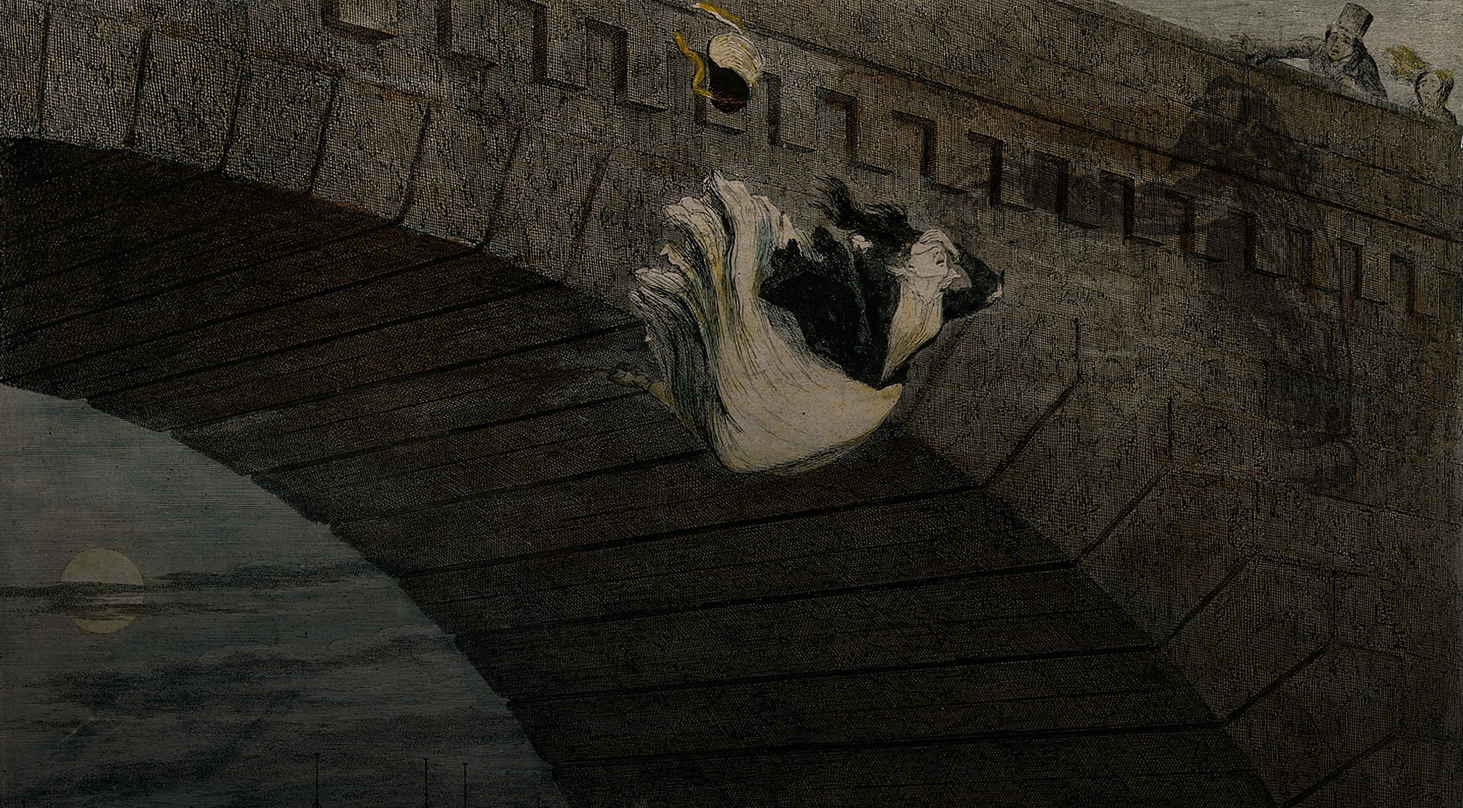
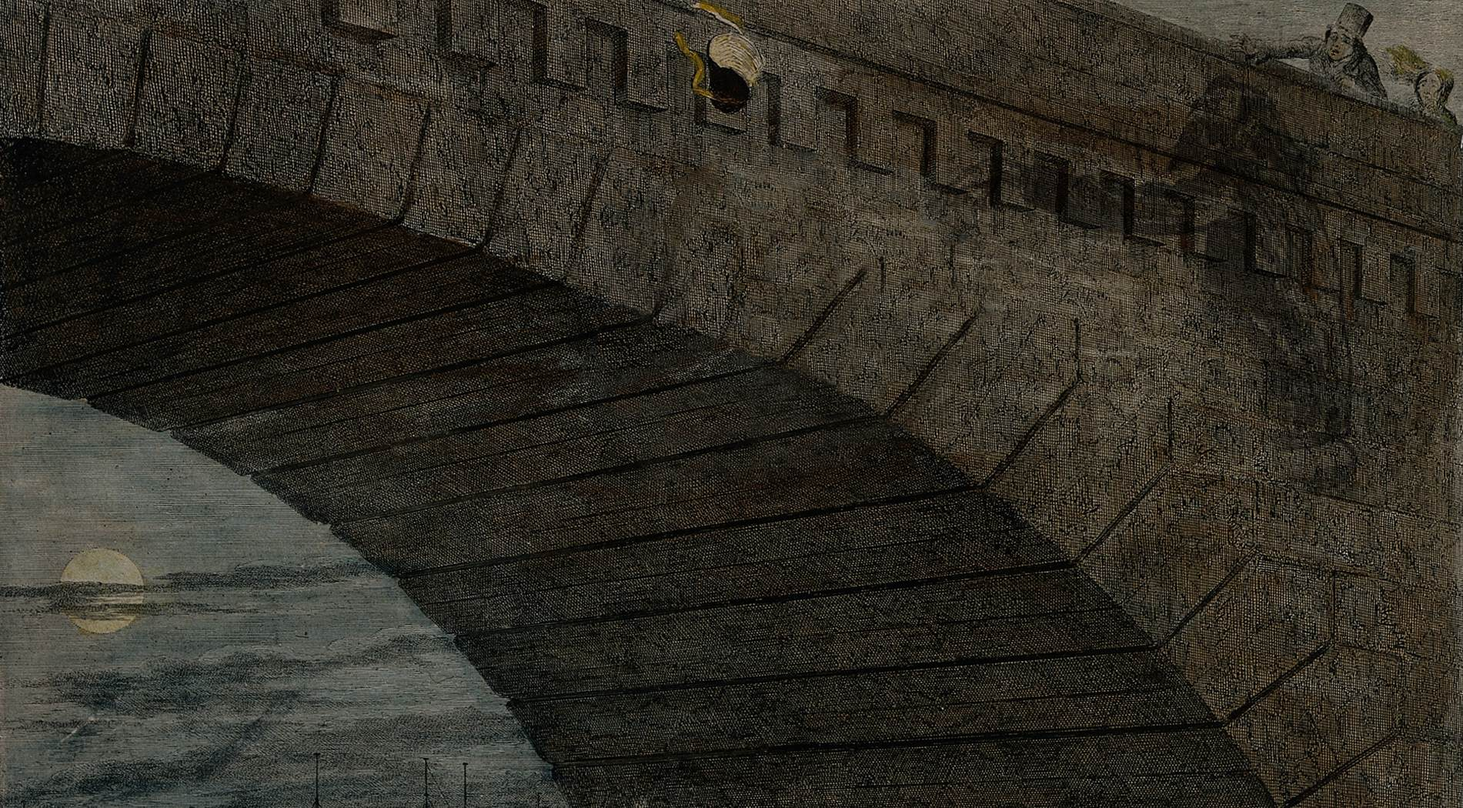
Svengali first comic initial layout and fade-in

Changed region(s): [[0.0, 0.1829, 1.0, 1.0], [0.6518, 0.6705, 0.6828, 0.701], [0.4966, 0.061, 0.5276, 0.0914]]

diff --git a/_assets/build/css/main.css b/_assets/build/css/main.css
@@ -1,1 +1,1 @@
-*{margin:0;padding:0;box-sizing:border-box}body{background-color:#000;font-family:"Abril Text Regular", Georgia, 'Times New Roman', Times, serif;font-size-adjust:0.5;font-weight:normal;font-style:normal;font-size:100%;color:#333;line-height:1.4}h1{font-family:"Abril Display Regular", Didot, 'Times New Roman', Times, serif;font-size-adjust:0.48;font-weight:normal;font-style:normal}h2,h3,h4,h5,h6{font-family:"Abril Display Regular", Didot, 'Times New Roman', Times, serif;font-size-adjust:0.48;font-weight:normal;font-style:normal;margin-bottom:1em}em,i{font-family:"Abril Text Italic", Georgia, 'Times New Roman', Times, serif;font-size-adjust:0.51;font-weight:normal;font-style:italic}iframe{border:none}.clearfix:before,.row:before,.clearfix:after,.row:after{content:" ";display:table}.clearfix:after,.row:after{clear:both}.global-navigation nav{background-color:#000}.global-navigation a{color:#fff}.global-navigation img{display:none}@media screen and (min-width: 48em){.global-navigation{position:fixed;top:0;left:0;width:100%;overflow:hidden;z-index:20}.global-navigation .container{-webkit-transform:translate(-1211px, 0);-webkit-transition:-webkit-transform 0.4s ease}.global-navigation .container.active{-webkit-transform:translate(0, 0)}.global-navigation nav{float:left;background-color:rgba(0,0,0,0.7);width:1210px;height:auto}.global-navigation ul{display:block}.global-navigation li{float:left;list-style:none}.global-navigation a{display:block;color:#fff;font-family:"Abril Text Regular", Georgia, 'Times New Roman', Times, serif;font-size-adjust:0.5;font-weight:normal;font-style:normal;font-size:0.7rem;text-transform:uppercase;letter-spacing:.1em;width:180px;padding:1em 1em 2em 1em;text-decoration:none}.global-navigation a:first-child{margin-left:1em}.global-navigation a span{display:block;padding:0.6em 0}.global-navigation a img{display:block;width:100%}.global-navigation .handle{float:left;background-color:rgba(0,0,0,0.7);width:65px;height:60px;border-left:1px solid #666}.global-navigation li:nth-child(1) span{border-top:1px solid #D81793}.global-navigation li:nth-child(2) span{border-top:1px solid #D5189A}.global-navigation li:nth-child(3) span{border-top:1px solid #CB1AA8}.global-navigation li:nth-child(4) span{border-top:1px solid #BB1DBD}.global-navigation li:nth-child(5) span{border-top:1px solid #B01FCF}.global-navigation li:nth-child(6) span{border-top:1px solid #A921D9}}.start .bg-container{position:absolute;top:0}.start .content{position:relative;width:80%;max-width:1200px;margin:10vh auto 0 auto}.start .scene-set{color:#fff;margin-bottom:6vh}.start .scene-set .location{display:block;font-family:"Tablet Gothic Regular", 'Avenir Next', Corbel, Arial, Roboto, sans-serif;font-weight:normal;font-style:normal;font-size:0.8rem;text-transform:uppercase;letter-spacing:.1em;text-align:center}.start .scene-set .date{display:block;font-family:"Abril Display Regular", Didot, 'Times New Roman', Times, serif;font-size-adjust:0.48;font-weight:normal;font-style:normal;font-size:2.2rem;text-align:center}.start header h1{color:#fff;font-size:2rem;line-height:1;text-align:center;margin:0.3em 0 0 0}.start .intro-text{color:#fff;font-family:"Abril Text Regular", Georgia, 'Times New Roman', Times, serif;font-size-adjust:0.5;font-weight:normal;font-style:normal;font-size:0.9rem;line-height:1.5;text-align:center;margin:2.2em auto 0 auto}@media screen and (min-width: 48em){.start{min-height:600px}.start .content{margin-top:20vh}.start .scene-set{margin-bottom:4em}.start .scene-set .date{font-size:4.2rem}.start header h1{font-size:4rem}.start .intro-text{font-size:1.1rem;width:75%}}.sequence:after{content:"";clear:left;display:block}.panel{position:relative}.bg-container{background-color:#000;width:100%;overflow:hidden}.bg-container img,.bg-container video{display:block;width:100%}.scroll-content{color:#fff;font-family:"Abril Text Regular", Georgia, 'Times New Roman', Times, serif;font-size-adjust:0.5;font-weight:normal;font-style:normal;font-size:0.9rem;padding:15px}.scroll-content .content{max-width:600px}.scroll-content p{margin-bottom:1em}.scroll-content.align-center{text-align:center}.scroll-content.light{color:#fff}.scroll-content.fixed{position:relative;top:auto;bottom:auto}.sequence .panel:last-of-type .scroll-content{bottom:30%}@media screen and (min-width: 48em){.bg-container{position:absolute;top:0;left:0;height:100%}.bg-container.fixed{position:fixed;top:0;left:0;width:100%}.scroll-content{position:absolute;left:3%;bottom:20%;font-size:1.2rem}.scroll-content.left{max-width:320px}.scroll-content.right{left:auto;right:3%;max-width:320px}.scroll-content.position-center{width:100%;left:0}.scroll-content.position-center .inner{width:640px;margin:0 auto}.panel{min-height:600px}}.scroll-content--strip{position:absolute;left:3%;font-size:0.9rem;color:#fff;background-color:rgba(0,0,0,0.7);width:250px;padding:35px 25px 200px 25px;line-height:1.6}.scroll-content--strip p{margin-bottom:1rem}.scroll-content--strip.top{top:0}.scroll-content--strip.bottom{bottom:-1px}.tap-block p{position:absolute;top:80px;width:100%;color:#fff;text-align:center;font-size:2.236rem;font-family:"Abril Text Regular", Georgia, 'Times New Roman', Times, serif;font-size-adjust:0.5;font-weight:normal;font-style:normal}.sciences-committee .scroll-content{top:35%;bottom:auto;width:100%}.sciences-committee .scroll-content header{margin-bottom:3em}.sciences-committee .scroll-content h1{color:#fff;text-align:center}.sciences-committee .inner{max-width:640px;margin:0 auto}.audio-icon{position:absolute;top:15px;right:15px;width:36px;height:36px;background:url("/_assets/img/play-sound.svg") 50% 50% no-repeat;background-size:100%;border-radius:4px;z-index:5;-webkit-transition:opacity 0.3s ease}.audio-icon:hover,.audio-icon.active{opacity:1}.audio-icon .circles{-webkit-animation-name:circle;-webkit-animation-duration:2s;-webkit-animation-iteration-count:infinite}.audio-icon .circles{position:absolute;top:0px;left:0px;width:36px;height:36px;border:2px solid #fff;border-radius:40px}@-webkit-keyframes circle{from{opacity:1;-webkit-transform:scale(0)}to{opacity:0;-webkit-transform:scale(2)}}.popup-section{background-color:#efefef;-webkit-perspective:800;-webkit-perspective-origin:50% 50%;-moz-perspective:800;-moz-perspective-origin:50% 50%}.crop-zoom{display:none;position:absolute;top:0px;width:100%;height:100%;z-index:10}@media screen and (min-width: 48em){.js .crop-zoom{display:block}}.tap-target{position:absolute;width:36px;height:36px;border-radius:36px;background-color:rgba(255,255,255,0.6)}.tap-target.rod{top:370px;left:15%}.tap-target.woman{top:570px;left:45%}.tap-target.mesmer{top:200px;right:22%}.tap-target div{position:absolute;top:0px;left:0px;width:36px;height:36px;border:2px solid #fff;border-radius:40px}.tap-target.animate div{-webkit-animation-name:circle;-webkit-animation-duration:3s;-webkit-animation-iteration-count:infinite}.overlay{display:none;position:fixed;top:0;background-color:transparent;width:100%;z-index:20;-webkit-transition:all 0.5s ease;-moz-transition:all 0.5s ease}.overlay .image-crop{position:absolute;opacity:0;z-index:15}.gonads img{-webkit-transform:scale(2.3, 2.3);-webkit-transform-origin:100% 0%;-webkit-transition:-webkit-transform 4s ease}.gonads.active img{-webkit-transform:scale(1, 1)}.india .scroll-content{color:#333}.boats{position:absolute;bottom:25px;width:100%;height:161px;background:url("/_assets/img/esdaile/esdaile-4-boat.png") 0 0 no-repeat;background-size:100%;z-index:5;-webkit-transform:translate(0, 0);-webkit-transition:all 20s linear}.past-twitter .tweet{position:relative;color:#fff;background-color:rgba(0,0,0,0.8);border-radius:5px;width:400px;padding:0.6em 1em;margin:1em 0}.past-twitter .tweet .avatar{position:absolute;top:-10px;background-color:#fff;width:90px;height:90px;border-radius:10px}.past-twitter .tweet .header{border-bottom:1px solid #777;padding-bottom:0.5em}.past-twitter .tweet .header .time{color:#999;font-family:"Tablet Gothic Regular", 'Avenir Next', Corbel, Arial, Roboto, sans-serif;font-weight:normal;font-style:normal;font-size:0.8rem}.past-twitter .tweet .header .username{font-family:"Tablet Gothic Regular", 'Avenir Next', Corbel, Arial, Roboto, sans-serif;font-weight:normal;font-style:normal;font-size:0.9rem}.past-twitter .tweet .header .username span{color:#999}.past-twitter .tweet .body{padding:0.6em 0}.past-twitter .tweet.wakley{float:left}.past-twitter .tweet.wakley .avatar{left:-10px}.past-twitter .tweet.wakley .header{padding-left:80px}.past-twitter .tweet.wakley .body{padding-left:80px}.past-twitter .tweet.elliotson{float:right}.past-twitter .tweet.elliotson .avatar{right:-10px}.past-twitter .tweet.elliotson .header{padding-right:80px}.past-twitter .tweet.elliotson .body{padding-right:80px}.library-panel{display:none;position:absolute;bottom:0;right:0;z-index:5;-webkit-transition:all 0.5s ease}.library-panel .handle{display:block;color:#fff;font-family:"Abril Text Italic", Georgia, 'Times New Roman', Times, serif;font-size-adjust:0.51;font-weight:normal;font-style:italic;width:40px;border:1px solid #fff;border-radius:3px;text-align:center;margin:0 0 5px -45px;line-height:40px}.library-panel .body{color:#fff;background-color:rgba(0,0,0,0.8);width:200px;height:200px;padding:15px}.library-panel.active{-webkit-transform:translate(0, 0)}.js .library-panel{display:block}.library-layer{position:relative;font-family:"Tablet Gothic Regular", 'Avenir Next', Corbel, Arial, Roboto, sans-serif;font-weight:normal;font-style:normal}.library-layer h1{font-family:"Tablet Gothic Regular", 'Avenir Next', Corbel, Arial, Roboto, sans-serif;font-weight:normal;font-style:normal}.library-layer li{list-style:none}.library-layer .inner{max-width:64em;margin:0 auto}.library-layer .bar{background-color:#70B5C9;padding:1.2em 0}.library-layer .bar span{color:#fff;font-size:0.9rem;text-transform:uppercase;margin-left:1.5em}.library-layer .bar .button{float:right;color:#fff;font-size:0.9rem;padding:0 1em;line-height:30px;text-transform:uppercase;text-decoration:none;border:1px solid #fff;border-radius:5px}.library-layer .gap{background:#fff;width:100%;overflow:hidden}.library-layer .in-the-player{padding:2em 0}.library-layer .in-the-player .in-the-player--header{border-bottom:1px solid #999;margin-bottom:2em}.library-layer .in-the-player .in-the-player--header h1{color:#999;font-size:0.9rem;text-transform:uppercase}.library-layer .in-the-player li{float:left;width:45%}.library-layer .in-the-player li:nth-child(odd){margin-right:10%}.library-layer .player-item{margin-bottom:3em}.library-layer .player-item img{float:left;margin-right:0.8em}.library-layer .player-item .player-item--content{float:left;width:60%}.library-layer .player-item .player-item--header{margin-bottom:0.8em}.library-layer .player-item .player-item--header h1{font-size:1.2rem}.library-layer .player-item .player-item--body{color:#64696A;font-size:0.9rem}.library-layer .player-item .player-item--body cite{display:block;margin-top:1em}.library-layer .player-item .player-item--footer{border-top:1px solid #ccc;padding-top:0.5em}.library-layer .player-item .player-item--footer a{color:#8CC4D4;font-size:0.8rem;text-decoration:none;text-transform:uppercase}.library-layer .related-resources{background-color:#F9F9F9;padding:2em 0}.library-layer .related-resources .related-resources--header{border-bottom:1px solid #999;margin-bottom:1em}.library-layer .related-resources .related-resources--header h1{color:#999;font-size:0.9rem;text-transform:uppercase}.library-layer .related-resources li{float:left;width:45%}.library-layer .related-resources li:nth-child(odd){margin-right:10%}.library-layer .related-item{margin-bottom:2em}.library-layer .related-item .related-item--header{margin-bottom:0.8em}.library-layer .related-item .related-item--header a{color:#000;text-decoration:none}.library-layer .related-item .related-item--header a:hover{color:#8CC4D4}.library-layer .related-item .related-item--header h1{font-size:1.2rem}.audio-player{position:relative;padding-right:40px}.audio-player .time-left{display:block;color:#fff;font-family:"Tablet Gothic Regular", 'Avenir Next', Corbel, Arial, Roboto, sans-serif;font-weight:normal;font-style:normal;font-size:0.75rem;text-transform:uppercase;height:18px}.audio-player .progress-bar{position:relative;background-color:rgba(255,255,255,0.4);width:100%;height:1px}.audio-player .progressed{position:absolute;top:0;left:0;background-color:#fff;height:1px}.audio-player .controls{position:absolute;right:0;top:0;background-color:#fff;width:36px;height:36px}.quiz{margin-top:20%}.quiz .content{max-width:960px;margin:0 auto}.quiz .quiz-container{position:relative;background-color:#fff;min-height:500px;border-radius:4px;overflow:hidden}.quiz .quiz-start{position:relative;min-height:500px;padding:1em}.quiz .quiz-start .button{position:absolute;bottom:20px;left:40%;font-family:"Tablet Gothic Regular", 'Avenir Next', Corbel, Arial, Roboto, sans-serif;font-weight:normal;font-style:normal;background-color:#70B5C9;padding:1px 3.2em 0 3.2em;line-height:50px;border-radius:25px;cursor:default}.quiz .quiz-playground{display:none}.quiz .image{float:left}.quiz .image img{width:100%}.quiz .answers{float:right;width:300px;padding:0 2em}.quiz .answers li{color:#333;font-family:"Tablet Gothic Regular", 'Avenir Next', Corbel, Arial, Roboto, sans-serif;font-weight:normal;font-style:normal;font-size:0.9rem;background-color:#fff;border:1px solid #999;width:100%;margin-bottom:1em;padding:1px 0 0 0.8em;line-height:32px;border-radius:18px;list-style:none;cursor:default}.quiz .question{color:#333;font-size:1.5rem;margin:1em 0 1.2em 0;line-height:1.2}.quiz .timer{position:absolute;color:#fff;font-family:"Tablet Gothic Regular", 'Avenir Next', Corbel, Arial, Roboto, sans-serif;font-weight:normal;font-style:normal;font-size:3.6rem;background-color:rgba(0,0,0,0.7);text-align:center;line-height:90px;width:100px;border-radius:50px;padding-top:10px}.quiz .remaining{position:absolute;bottom:0;left:0;background-color:rgba(255,255,255,0.7);padding:0.4em}.quiz .score{font-size:1.6rem;border:1px solid #ccc;text-align:center;padding-top:0.6em;border-radius:10px}.quiz .score span{display:block;font-family:"Tablet Gothic Regular", 'Avenir Next', Corbel, Arial, Roboto, sans-serif;font-weight:normal;font-style:normal;font-size:6rem}.quiz .quiz-finish{display:none}.quiz .quiz-finish header{text-align:center;padding-top:2em}.quiz .quiz-finish header h1{display:inline;font-size:2.6rem;border-bottom:1px solid #999;padding-bottom:0.5em}.quiz .quiz-finish--score{font-family:"Tablet Gothic Regular", 'Avenir Next', Corbel, Arial, Roboto, sans-serif;font-weight:normal;font-style:normal;font-size:0.9rem;text-align:center;margin-top:6em}.quiz .quiz-finish--score span{display:block;font-size:5rem}
+*{margin:0;padding:0;box-sizing:border-box}body{background-color:#000;font-family:"Abril Text Regular", Georgia, 'Times New Roman', Times, serif;font-size-adjust:0.5;font-weight:normal;font-style:normal;font-size:100%;color:#333;line-height:1.4}h1{font-family:"Abril Display Regular", Didot, 'Times New Roman', Times, serif;font-size-adjust:0.48;font-weight:normal;font-style:normal}h2,h3,h4,h5,h6{font-family:"Abril Display Regular", Didot, 'Times New Roman', Times, serif;font-size-adjust:0.48;font-weight:normal;font-style:normal;margin-bottom:1em}em,i{font-family:"Abril Text Italic", Georgia, 'Times New Roman', Times, serif;font-size-adjust:0.51;font-weight:normal;font-style:italic}iframe{border:none}.clearfix:before,.row:before,.clearfix:after,.row:after{content:" ";display:table}.clearfix:after,.row:after{clear:both}.global-navigation nav{background-color:#000}.global-navigation a{color:#fff}.global-navigation img{display:none}@media screen and (min-width: 48em){.global-navigation{position:fixed;top:0;left:0;width:100%;overflow:hidden;z-index:20}.global-navigation .container{-webkit-transform:translate(-1211px, 0);-webkit-transition:-webkit-transform 0.4s ease}.global-navigation .container.active{-webkit-transform:translate(0, 0)}.global-navigation nav{float:left;background-color:rgba(0,0,0,0.7);width:1210px;height:auto}.global-navigation ul{display:block}.global-navigation li{float:left;list-style:none}.global-navigation a{display:block;color:#fff;font-family:"Abril Text Regular", Georgia, 'Times New Roman', Times, serif;font-size-adjust:0.5;font-weight:normal;font-style:normal;font-size:0.7rem;text-transform:uppercase;letter-spacing:.1em;width:180px;padding:1em 1em 2em 1em;text-decoration:none}.global-navigation a:first-child{margin-left:1em}.global-navigation a span{display:block;padding:0.6em 0}.global-navigation a img{display:block;width:100%}.global-navigation .handle{float:left;background-color:rgba(0,0,0,0.7);width:65px;height:60px;border-left:1px solid #666}.global-navigation li:nth-child(1) span{border-top:1px solid #D81793}.global-navigation li:nth-child(2) span{border-top:1px solid #D5189A}.global-navigation li:nth-child(3) span{border-top:1px solid #CB1AA8}.global-navigation li:nth-child(4) span{border-top:1px solid #BB1DBD}.global-navigation li:nth-child(5) span{border-top:1px solid #B01FCF}.global-navigation li:nth-child(6) span{border-top:1px solid #A921D9}}.start .bg-container{position:absolute;top:0}.start .content{position:relative;width:80%;max-width:1200px;margin:10vh auto 0 auto}.start .scene-set{color:#fff;margin-bottom:6vh}.start .scene-set .location{display:block;font-family:"Tablet Gothic Regular", 'Avenir Next', Corbel, Arial, Roboto, sans-serif;font-weight:normal;font-style:normal;font-size:0.8rem;text-transform:uppercase;letter-spacing:.1em;text-align:center}.start .scene-set .date{display:block;font-family:"Abril Display Regular", Didot, 'Times New Roman', Times, serif;font-size-adjust:0.48;font-weight:normal;font-style:normal;font-size:2.2rem;text-align:center}.start header h1{color:#fff;font-size:2rem;line-height:1;text-align:center;margin:0.3em 0 0 0}.start .intro-text{color:#fff;font-family:"Abril Text Regular", Georgia, 'Times New Roman', Times, serif;font-size-adjust:0.5;font-weight:normal;font-style:normal;font-size:0.9rem;line-height:1.5;text-align:center;margin:2.2em auto 0 auto}@media screen and (min-width: 48em){.start{min-height:600px}.start .content{margin-top:20vh}.start .scene-set{margin-bottom:4em}.start .scene-set .date{font-size:4.2rem}.start header h1{font-size:4rem}.start .intro-text{font-size:1.1rem;width:75%}.falling-lady{position:absolute;left:36%;top:25%;width:350px}.falling-lady img{width:100%}}.sequence:after{content:"";clear:left;display:block}.panel{position:relative}.bg-container{background-color:#000;width:100%;overflow:hidden}.bg-container img,.bg-container video{display:block;width:100%}.scroll-content{color:#fff;font-family:"Abril Text Regular", Georgia, 'Times New Roman', Times, serif;font-size-adjust:0.5;font-weight:normal;font-style:normal;font-size:0.9rem;padding:15px}.scroll-content .content{max-width:600px}.scroll-content p{margin-bottom:1em}.scroll-content.align-center{text-align:center}.scroll-content.light{color:#fff}.scroll-content.fixed{position:relative;top:auto;bottom:auto}.sequence .panel:last-of-type .scroll-content{bottom:30%}@media screen and (min-width: 48em){.bg-container{position:absolute;top:0;left:0;height:100%}.bg-container.fixed{position:fixed;top:0;left:0;width:100%}.sequence .panel:last-child .bg-container{top:auto;bottom:0}.scroll-content{position:absolute;left:3%;bottom:20%;font-size:1.2rem}.scroll-content.left{max-width:320px}.scroll-content.right{left:auto;right:3%;max-width:320px}.scroll-content.position-center{width:100%;left:0}.scroll-content.position-center .inner{width:640px;margin:0 auto}.panel{min-height:600px}}.scroll-content--strip{position:absolute;left:3%;font-size:0.9rem;color:#fff;background-color:rgba(0,0,0,0.7);width:250px;padding:35px 25px 200px 25px;line-height:1.6}.scroll-content--strip p{margin-bottom:1rem}.scroll-content--strip.top{top:0}.scroll-content--strip.bottom{bottom:-1px}.tap-block p{position:absolute;top:80px;width:100%;color:#fff;text-align:center;font-size:2.236rem;font-family:"Abril Text Regular", Georgia, 'Times New Roman', Times, serif;font-size-adjust:0.5;font-weight:normal;font-style:normal}.sciences-committee .scroll-content{top:35%;bottom:auto;width:100%}.sciences-committee .scroll-content header{margin-bottom:3em}.sciences-committee .scroll-content h1{color:#fff;text-align:center}.sciences-committee .inner{max-width:640px;margin:0 auto}.audio-icon{position:absolute;top:15px;right:15px;width:36px;height:36px;background:url("/_assets/img/play-sound.svg") 50% 50% no-repeat;background-size:100%;border-radius:4px;z-index:5;-webkit-transition:opacity 0.3s ease}.audio-icon:hover,.audio-icon.active{opacity:1}.audio-icon .circles{-webkit-animation-name:circle;-webkit-animation-duration:2s;-webkit-animation-iteration-count:infinite}.audio-icon .circles{position:absolute;top:0px;left:0px;width:36px;height:36px;border:2px solid #fff;border-radius:40px}@-webkit-keyframes circle{from{opacity:1;-webkit-transform:scale(0)}to{opacity:0;-webkit-transform:scale(2)}}.popup-section{background-color:#efefef;-webkit-perspective:800;-webkit-perspective-origin:50% 50%;-moz-perspective:800;-moz-perspective-origin:50% 50%}.crop-zoom{display:none;position:absolute;top:0px;width:100%;height:100%;z-index:10}@media screen and (min-width: 48em){.js .crop-zoom{display:block}}.tap-target{position:absolute;width:36px;height:36px;border-radius:36px;background-color:rgba(255,255,255,0.6)}.tap-target.rod{top:370px;left:15%}.tap-target.woman{top:570px;left:45%}.tap-target.mesmer{top:200px;right:22%}.tap-target div{position:absolute;top:0px;left:0px;width:36px;height:36px;border:2px solid #fff;border-radius:40px}.tap-target.animate div{-webkit-animation-name:circle;-webkit-animation-duration:3s;-webkit-animation-iteration-count:infinite}.overlay{display:none;position:fixed;top:0;background-color:transparent;width:100%;z-index:20;-webkit-transition:all 0.5s ease;-moz-transition:all 0.5s ease}.overlay .image-crop{position:absolute;opacity:0;z-index:15}.gonads img{-webkit-transform:scale(2.3, 2.3);-webkit-transform-origin:100% 0%;-webkit-transition:-webkit-transform 4s ease}.gonads.active img{-webkit-transform:scale(1, 1)}.india .scroll-content{color:#333}.boats{position:absolute;bottom:25px;width:100%;height:161px;background:url("/_assets/img/esdaile/esdaile-4-boat.png") 0 0 no-repeat;background-size:100%;z-index:5;-webkit-transform:translate(0, 0);-webkit-transition:all 20s linear}.trilby .inner{max-width:1024px;margin:0 auto}.trilby .comic-panel{float:left}.trilby .comic-panel img{display:block;width:100%}.trilby .comic-panel:nth-child(1){width:45%}.trilby .comic-panel:nth-child(2){width:45%;margin-left:5%}.trilby .comic-panel:nth-child(3){width:60%;margin-left:-15%;margin-top:-95px}.trilby .comic-panel:nth-child(4){width:45%;margin-left:5%;margin-top:25px}.trilby .comic-panel:nth-child(5){width:45%;margin-top:-65px}.trilby .comic-panel:nth-child(6){width:35%;margin-left:5%;margin-top:25px}.trilby .comic-panel:nth-child(7){width:40%;margin-top:-145px;margin-left:5%}.trilby .comic-panel:nth-child(8){width:25%;margin-left:5%;padding:2em 0}.trilby .comic-panel:nth-child(9){width:45%;margin-left:5%;margin-top:170px}.trilby .comic-panel:nth-child(10){width:45%;margin-top:-140px}.trilby .comic-panel:nth-child(11){width:45%;margin-top:25px;margin-left:5%}.trilby .comic-panel:nth-child(12){width:35%;margin-left:10%}.past-twitter .tweet{position:relative;color:#fff;background-color:rgba(0,0,0,0.8);border-radius:5px;width:400px;padding:0.6em 1em;margin:1em 0}.past-twitter .tweet .avatar{position:absolute;top:-10px;background-color:#fff;width:90px;height:90px;border-radius:10px}.past-twitter .tweet .header{border-bottom:1px solid #777;padding-bottom:0.5em}.past-twitter .tweet .header .time{color:#999;font-family:"Tablet Gothic Regular", 'Avenir Next', Corbel, Arial, Roboto, sans-serif;font-weight:normal;font-style:normal;font-size:0.8rem}.past-twitter .tweet .header .username{font-family:"Tablet Gothic Regular", 'Avenir Next', Corbel, Arial, Roboto, sans-serif;font-weight:normal;font-style:normal;font-size:0.9rem}.past-twitter .tweet .header .username span{color:#999}.past-twitter .tweet .body{padding:0.6em 0}.past-twitter .tweet.wakley{float:left}.past-twitter .tweet.wakley .avatar{left:-10px}.past-twitter .tweet.wakley .header{padding-left:80px}.past-twitter .tweet.wakley .body{padding-left:80px}.past-twitter .tweet.elliotson{float:right}.past-twitter .tweet.elliotson .avatar{right:-10px}.past-twitter .tweet.elliotson .header{padding-right:80px}.past-twitter .tweet.elliotson .body{padding-right:80px}.library-panel{display:none;position:absolute;bottom:0;right:0;z-index:5;-webkit-transition:all 0.5s ease}.library-panel .handle{display:block;color:#fff;font-family:"Abril Text Italic", Georgia, 'Times New Roman', Times, serif;font-size-adjust:0.51;font-weight:normal;font-style:italic;width:40px;border:1px solid #fff;border-radius:3px;text-align:center;margin:0 0 5px -45px;line-height:40px}.library-panel .body{color:#fff;background-color:rgba(0,0,0,0.8);width:200px;height:200px;padding:15px}.library-panel.active{-webkit-transform:translate(0, 0)}.js .library-panel{display:block}.library-layer{position:relative;font-family:"Tablet Gothic Regular", 'Avenir Next', Corbel, Arial, Roboto, sans-serif;font-weight:normal;font-style:normal}.library-layer h1{font-family:"Tablet Gothic Regular", 'Avenir Next', Corbel, Arial, Roboto, sans-serif;font-weight:normal;font-style:normal}.library-layer li{list-style:none}.library-layer .inner{max-width:64em;margin:0 auto}.library-layer .bar{background-color:#70B5C9;padding:1.2em 0}.library-layer .bar span{color:#fff;font-size:0.9rem;text-transform:uppercase;margin-left:1.5em}.library-layer .bar .button{float:right;color:#fff;font-size:0.9rem;padding:0 1em;line-height:30px;text-transform:uppercase;text-decoration:none;border:1px solid #fff;border-radius:5px}.library-layer .gap{background:#fff;width:100%;overflow:hidden}.library-layer .in-the-player{padding:2em 0}.library-layer .in-the-player .in-the-player--header{border-bottom:1px solid #999;margin-bottom:2em}.library-layer .in-the-player .in-the-player--header h1{color:#999;font-size:0.9rem;text-transform:uppercase}.library-layer .in-the-player li{float:left;width:45%}.library-layer .in-the-player li:nth-child(odd){margin-right:10%}.library-layer .player-item{margin-bottom:3em}.library-layer .player-item img{float:left;margin-right:0.8em}.library-layer .player-item .player-item--content{float:left;width:60%}.library-layer .player-item .player-item--header{margin-bottom:0.8em}.library-layer .player-item .player-item--header h1{font-size:1.2rem}.library-layer .player-item .player-item--body{color:#64696A;font-size:0.9rem}.library-layer .player-item .player-item--body cite{display:block;margin-top:1em}.library-layer .player-item .player-item--footer{border-top:1px solid #ccc;padding-top:0.5em}.library-layer .player-item .player-item--footer a{color:#8CC4D4;font-size:0.8rem;text-decoration:none;text-transform:uppercase}.library-layer .related-resources{background-color:#F9F9F9;padding:2em 0}.library-layer .related-resources .related-resources--header{border-bottom:1px solid #999;margin-bottom:1em}.library-layer .related-resources .related-resources--header h1{color:#999;font-size:0.9rem;text-transform:uppercase}.library-layer .related-resources li{float:left;width:45%}.library-layer .related-resources li:nth-child(odd){margin-right:10%}.library-layer .related-item{margin-bottom:2em}.library-layer .related-item .related-item--header{margin-bottom:0.8em}.library-layer .related-item .related-item--header a{color:#000;text-decoration:none}.library-layer .related-item .related-item--header a:hover{color:#8CC4D4}.library-layer .related-item .related-item--header h1{font-size:1.2rem}.audio-player{position:relative;padding-right:40px}.audio-player .time-left{display:block;color:#fff;font-family:"Tablet Gothic Regular", 'Avenir Next', Corbel, Arial, Roboto, sans-serif;font-weight:normal;font-style:normal;font-size:0.75rem;text-transform:uppercase;height:18px}.audio-player .progress-bar{position:relative;background-color:rgba(255,255,255,0.4);width:100%;height:1px}.audio-player .progressed{position:absolute;top:0;left:0;background-color:#fff;height:1px}.audio-player .controls{position:absolute;right:0;top:0;background-color:#fff;width:36px;height:36px}.quiz{margin-top:20%}.quiz .content{max-width:960px;margin:0 auto}.quiz .quiz-container{position:relative;background-color:#fff;min-height:500px;border-radius:4px;overflow:hidden}.quiz .quiz-start{position:relative;min-height:500px;padding:1em}.quiz .quiz-start .button{position:absolute;bottom:20px;left:40%;font-family:"Tablet Gothic Regular", 'Avenir Next', Corbel, Arial, Roboto, sans-serif;font-weight:normal;font-style:normal;background-color:#70B5C9;padding:1px 3.2em 0 3.2em;line-height:50px;border-radius:25px;cursor:default}.quiz .quiz-playground{display:none}.quiz .image{float:left}.quiz .image img{width:100%}.quiz .answers{float:right;width:300px;padding:0 2em}.quiz .answers li{color:#333;font-family:"Tablet Gothic Regular", 'Avenir Next', Corbel, Arial, Roboto, sans-serif;font-weight:normal;font-style:normal;font-size:0.9rem;background-color:#fff;border:1px solid #999;width:100%;margin-bottom:1em;padding:1px 0 0 0.8em;line-height:32px;border-radius:18px;list-style:none;cursor:default}.quiz .question{color:#333;font-size:1.5rem;margin:1em 0 1.2em 0;line-height:1.2}.quiz .timer{position:absolute;color:#fff;font-family:"Tablet Gothic Regular", 'Avenir Next', Corbel, Arial, Roboto, sans-serif;font-weight:normal;font-style:normal;font-size:3.6rem;background-color:rgba(0,0,0,0.7);text-align:center;line-height:90px;width:100px;border-radius:50px;padding-top:10px}.quiz .remaining{position:absolute;bottom:0;left:0;background-color:rgba(255,255,255,0.7);padding:0.4em}.quiz .score{font-size:1.6rem;border:1px solid #ccc;text-align:center;padding-top:0.6em;border-radius:10px}.quiz .score span{display:block;font-family:"Tablet Gothic Regular", 'Avenir Next', Corbel, Arial, Roboto, sans-serif;font-weight:normal;font-style:normal;font-size:6rem}.quiz .quiz-finish{display:none}.quiz .quiz-finish header{text-align:center;padding-top:2em}.quiz .quiz-finish header h1{display:inline;font-size:2.6rem;border-bottom:1px solid #999;padding-bottom:0.5em}.quiz .quiz-finish--score{font-family:"Tablet Gothic Regular", 'Avenir Next', Corbel, Arial, Roboto, sans-serif;font-weight:normal;font-style:normal;font-size:0.9rem;text-align:center;margin-top:6em}.quiz .quiz-finish--score span{display:block;font-size:5rem}

diff --git a/_assets/js/main.js b/_assets/js/main.js
@@ -40,6 +40,18 @@ Pathways.LoadScenes = function() {
         .setTween(start_tween)
 
 
+    // Svengali
+    if( _('.falling-lady') ) {
+        var lady_tween = TweenMax.to( _('.falling-lady'), 5, { y: (panel_height * 2) } );
+
+        scenes[idx++] = new ScrollScene({
+                triggerElement: '.start',
+                duration:       (panel_height * 2),
+                offset:         (panel_height / 4)
+            })
+            .setTween(lady_tween);
+    }
+
     /**************
         Sequence
      **************/
@@ -142,17 +154,20 @@ Pathways.LoadScenes = function() {
     }
 
     // Video
-    if( $('.news').length && _('.news-video') ) {
+    if( $('.news').length ) {
         scenes[idx++] = new ScrollScene({
                 triggerElement: '.news',
                 duration:       panel_height
             })
             .on('enter', function(e) {
-                _('.news-video').play();
+                if( _('.news video') )
+                    _('.news video').play();
             })
             .on('leave', function(e) {
-                _('.news-video').pause();
-                _('.news-video').currentTime = 0;
+                if( _('.news video') ) {
+                    _('.news video').pause();
+                    _('.news video').currentTime = 0;
+                }
             })
     }
 
@@ -177,12 +192,30 @@ Pathways.LoadScenes = function() {
                 duration:       panel_height
             })
             .on('enter', function(e) {
-                _('.air-loom-video').play();
+                if( _('.air-loom-content video') )
+                    _('.air-loom-content video').play();
             })
             .on('leave', function(e) {
-                _('.air-loom-video').pause();
-                _('.air-loom-video').currentTime = 0;
+                if( _('.air-loom-content video') ) {
+                    _('.air-loom-content video').pause();
+                    _('.air-loom-content video').currentTime = 0;
+                }
             })
+    }
+
+    // Svengali
+    if( _('.trilby') ) {
+        $('.comic-panel').css('opacity', 0);
+
+        $('.comic-panel').each(function() {
+            var tween = TweenMax.to( $(this), 1, { opacity: 1 } );
+
+            scenes[idx++] = new ScrollScene({
+                    triggerElement:     $(this),
+                    duration:           $(this).height(),
+                })
+                .setTween(tween);
+        })
     }
 
 

diff --git a/_assets/scss/patterns/panels.scss b/_assets/scss/patterns/panels.scss
@@ -219,3 +219,92 @@
     -webkit-transition: all 20s linear;
 }
 
+/* Svengali */
+
+.trilby {
+
+    .inner {
+        max-width:  1024px;
+        margin:     0 auto;
+    }
+
+    .scroll-content {
+        // bottom: auto !important;
+    }
+
+    .comic-panel {
+        float: left;
+
+        img {
+            display: block;
+            width: 100%;
+        }
+    }
+
+    .comic-panel:nth-child(1) {
+        width: 45%;
+    }
+
+    .comic-panel:nth-child(2) {
+        width: 45%;
+        margin-left: 5%;
+    }
+
+    .comic-panel:nth-child(3) {
+        width: 60%;
+        margin-left: -15%;
+        margin-top: -95px;
+    }
+
+    .comic-panel:nth-child(4) {
+        width: 45%;
+        margin-left: 5%;
+        margin-top: 25px;
+    }
+
+    .comic-panel:nth-child(5) {
+        width: 45%;
+        margin-top: -65px;
+    }
+
+    .comic-panel:nth-child(6) {
+        width: 35%;
+        margin-left: 5%;
+        margin-top: 25px;
+    }
+
+    .comic-panel:nth-child(7) {
+        width: 40%;
+        margin-top: -145px;
+        margin-left: 5%;
+    }
+
+    .comic-panel:nth-child(8) {
+        width: 25%;
+        margin-left: 5%;
+        padding: 2em 0;
+    }
+
+    .comic-panel:nth-child(9) {
+        width: 45%;
+        margin-left: 5%;
+        margin-top: 170px;
+    }
+
+    .comic-panel:nth-child(10) {
+        width: 45%;
+        margin-top: -140px;
+    }
+
+    .comic-panel:nth-child(11) {
+        width: 45%;
+        margin-top: 25px;
+        margin-left: 5%;
+    }
+
+    .comic-panel:nth-child(12) {
+        width: 35%;
+        margin-left: 10%;
+    }
+}
+

diff --git a/_assets/js/pathways.js b/_assets/js/pathways.js
@@ -17,8 +17,10 @@
             loadComponents();
             resizeAllTheThings();
 
-            if( !supports_touch )
+            if( !supports_touch ) {
                 window.Pathways.LoadScenes();
+                loadVideo();
+            }
 
             window.addEventListener('resize', function() {
                 resizeAllTheThings();
@@ -37,6 +39,22 @@
                     }
                     else
                         console.warn('Could not load the necessary component: ' + handlerClass);
+                }
+            });
+        }
+
+        var loadVideo = function() {
+            $('.bg-container.video').each(function() {
+                var $this   = $(this),
+                    src     = $this.data('src');
+
+                if( src ) {
+                    var video = document.createElement('video');
+                    
+                    video.src   = src;
+                    video.loop  = true;
+
+                    $this.html(video);
                 }
             });
         }

diff --git a/_assets/scss/patterns/start.scss b/_assets/scss/patterns/start.scss
@@ -77,4 +77,15 @@
             width:      75%;
         }
     }
+
+    .falling-lady {
+        position:   absolute;
+        left:       36%;
+        top:        25%;
+        width:      350px;
+
+        img {
+            width: 100%;
+        }
+    }
 }

diff --git a/_assets/scss/patterns/sequences.scss b/_assets/scss/patterns/sequences.scss
@@ -70,6 +70,11 @@
         width:          100%;
     }
 
+    .sequence .panel:last-child .bg-container {
+        top:    auto;
+        bottom: 0;
+    }
+
     .scroll-content {
         position:       absolute;
         left:           3%;

diff --git a/modules/svengali.php b/modules/svengali.php
@@ -8,6 +8,10 @@
             <div class="bg-container fixed">
                 <img src="../_assets/img/svengali/svengali-1.jpg">
             </div>
+
+            <div class="falling-lady">
+                <img src="../_assets/img/svengali/falling-lady.png">
+            </div>
             
             <div class="content">
                 <p class="scene-set">
@@ -29,19 +33,62 @@
 
         <div class="sequence">
             
-            <div class="panel">
+            <div class="panel trilby">
                 <div class="bg-container">
                     <img src="../_assets/img/svengali/svengali-2.jpg">
                 </div>
 
-                <div class="scroll-content text">
+                <div class="scroll-content fixed">
                     
-                    <div class="content">
-                        <header>
-                            <h1></h1>
-                        </header>
+                    <div class="inner">
+                        <div class="trilby-header">
+                            <header>
+                                <span>Fiction</span>
+                                <h1>Trilby</h1>
 
-                        <p></p>
+                                <p>The question of how hypnosis can be used for evil is the basis of Trilby, by George du Maurier, 1894.</p>
+                                <p>Trilby is the second most popular book of the 19th Century, and it creates the archetype of evil hypnotist: Svengali.</p>
+                            </header>
+                        </div>
+                        
+                        <div class="comic-strip clearfix">
+                            <div class="comic-panel">
+                                <img src="../_assets/img/svengali/comic-1/Slice-1.jpg">
+                            </div>
+                            <div class="comic-panel">
+                                <img src="../_assets/img/svengali/comic-1/Slice-2.jpg">
+                            </div>
+                            <div class="comic-panel">
+                                <img src="../_assets/img/svengali/comic-1/Slice-3.jpg">
+                            </div>
+                            <div class="comic-panel">
+                                <img src="../_assets/img/svengali/comic-1/Slice-4.jpg">
+                            </div>
+                            <div class="comic-panel">
+                                <img src="../_assets/img/svengali/comic-1/Slice-5.jpg">
+                            </div>
+                            <div class="comic-panel">
+                                <img src="../_assets/img/svengali/comic-1/Slice-6.jpg">
+                            </div>
+                            <div class="comic-panel">
+                                <img src="../_assets/img/svengali/comic-1/Slice-7.jpg">
+                            </div>
+                            <div class="comic-panel">
+                                <p>...but once Svengali releases her from hypnosis, she has no memory of her performance</p>
+                            </div>
+                            <div class="comic-panel">
+                                <img src="../_assets/img/svengali/comic-1/Slice-8.jpg">
+                            </div>
+                            <div class="comic-panel">
+                                <img src="../_assets/img/svengali/comic-1/Slice-9.jpg">
+                            </div>
+                            <div class="comic-panel">
+                                <img src="../_assets/img/svengali/comic-1/Slice-10.jpg">
+                            </div>
+                            <div class="comic-panel">
+                                <img src="../_assets/img/svengali/comic-1/Slice-11.jpg">
+                            </div>
+                        </div>
                     </div>
                     
                 </div>
@@ -50,18 +97,6 @@
             <div class="panel">
                 <div class="bg-container">
                     <img src="../_assets/img/svengali/svengali-2.jpg">
-                </div>
-
-                <div class="scroll-content text">
-                    
-                    <div class="content">
-                        <header>
-                            <h1></h1>
-                        </header>
-
-                        <p></p>
-                    </div>
-                    
                 </div>
             </div>
 

diff --git a/modules/airloom.php b/modules/airloom.php
@@ -43,8 +43,8 @@
 
             <div class="panel air-loom-content">
 
-                <div class="bg-container">
-                    <video class="air-loom-video" src="../_assets/video/Airloom.mov" loop></video>
+                <div class="bg-container video" data-src="../_assets/video/Airloom.mov">
+                    <!-- <video class="air-loom-video" src="../_assets/video/Airloom.mov" loop></video> -->
                 </div>
 
                 <div class="scroll-content position-center align-center"></div>

diff --git a/modules/mesmer.php b/modules/mesmer.php
@@ -106,7 +106,7 @@
 
             <div class="panel news">
 
-                <div class="bg-container">
+                <div class="bg-container video" data-src="../_assets/video/Pathways.mp4">
                     <img src="../_assets/img/mesmer/mesmer-5.jpg">
                     <!-- <video class="news-video" src="../_assets/video/Pathways.mp4" loop></video> -->
                 </div>

diff --git a/_includes/footer.php b/_includes/footer.php
@@ -18,9 +18,9 @@
     <script src="../_assets/js/main.js"></script>
 
     <script>
-        (function() {
+        window.addEventListener('load', function() {
             var pw = new Pathways();
-        })();
+        })
     </script>
 
 </body>
